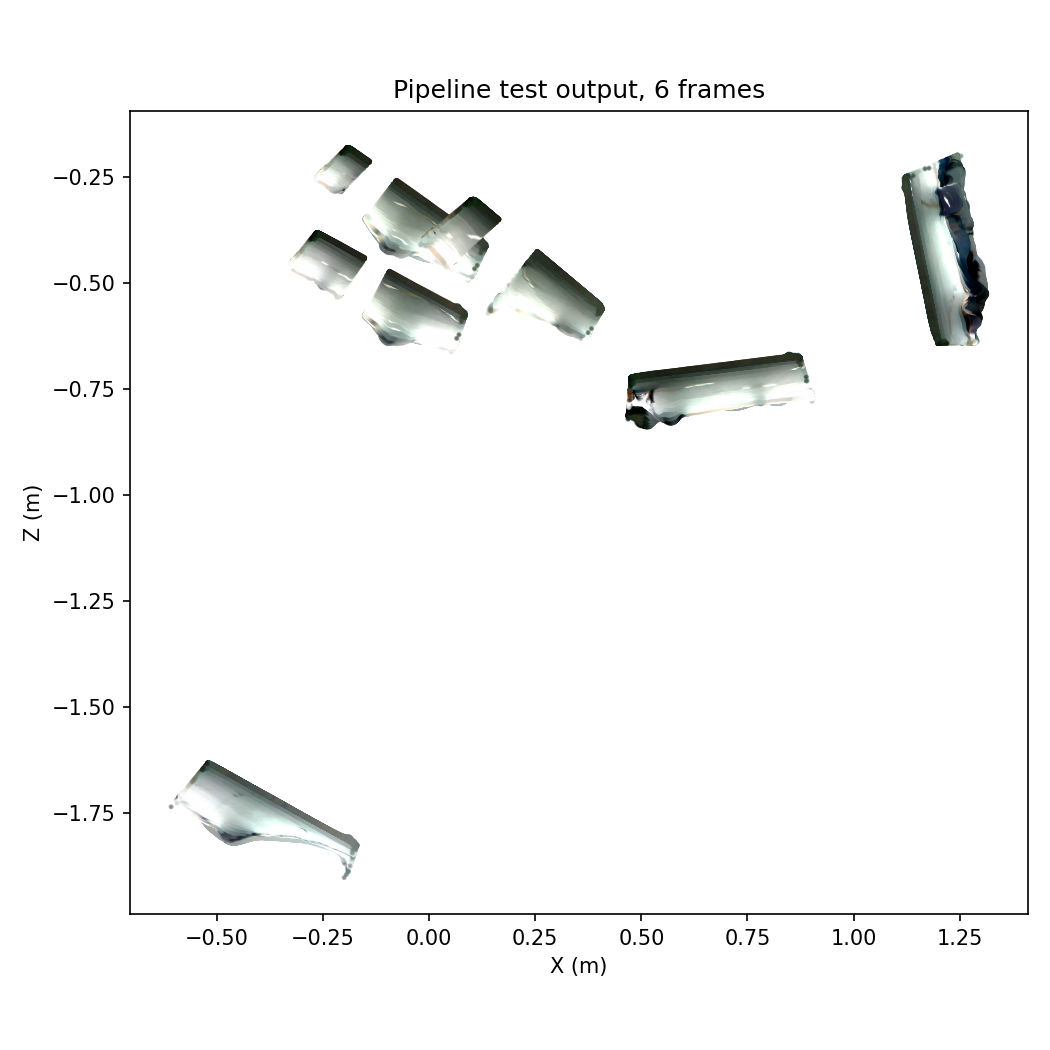
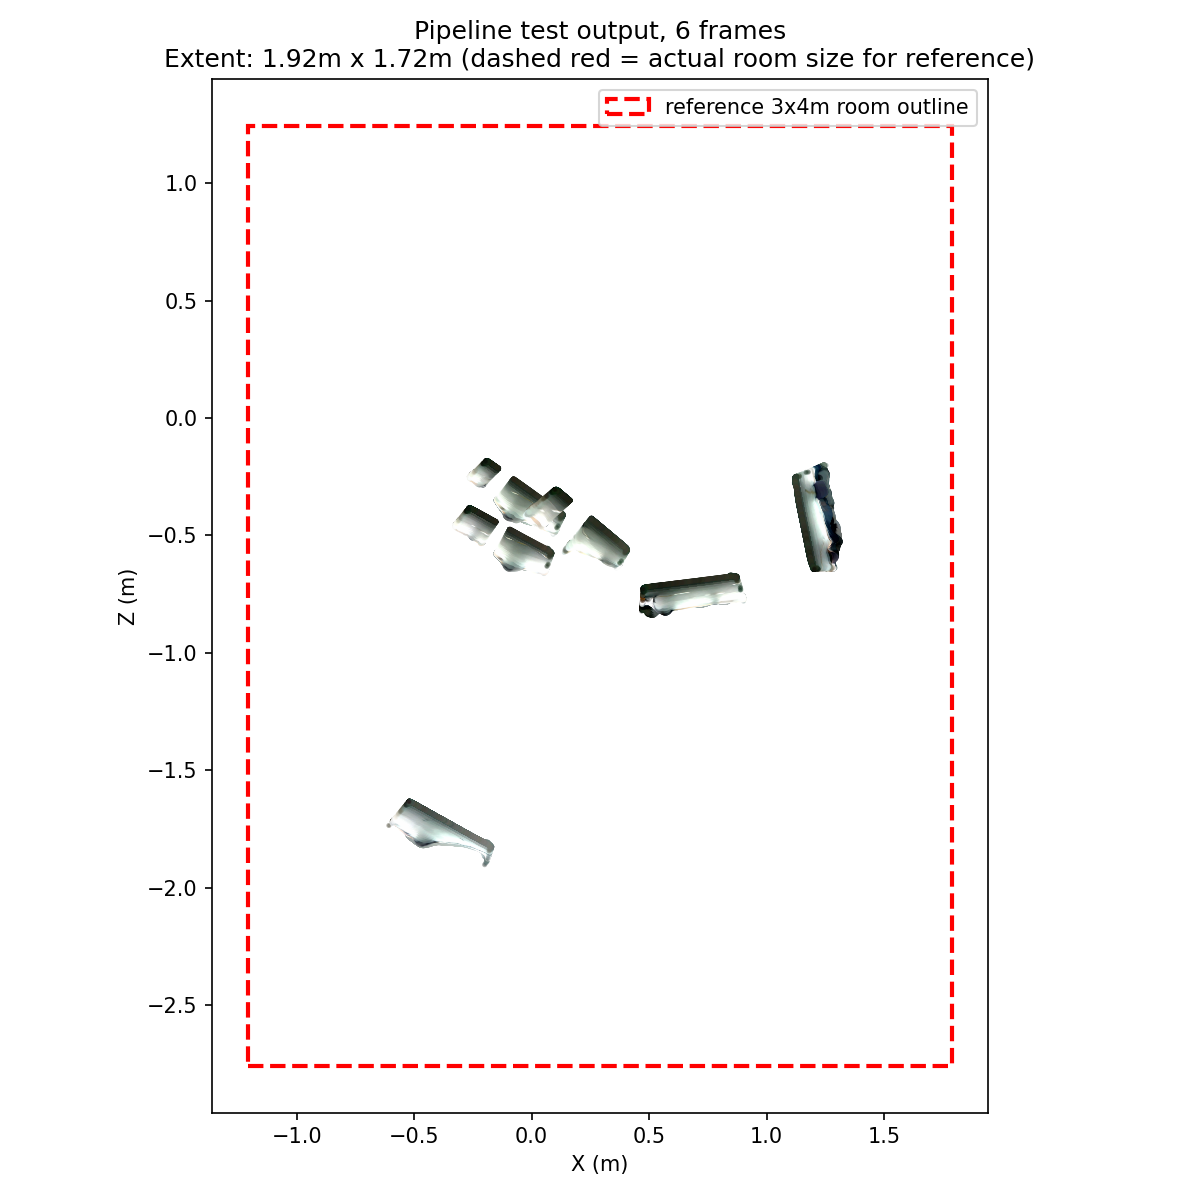
add tes_pipilinet.py

diff --git a/test.py b/test.py
@@ -1,4 +1,3 @@
-import torch
 import cv2
 import json
 import numpy as np
@@ -6,32 +5,42 @@ import pandas as pd
 import glob
 import os
 import matplotlib.pyplot as plt
-from model import ResNetDepth
-from geometric_projection import world_to_camera_frame, project_to_pixel
 
 IMG_DIR = "dataset/rgb"
 POSE_CSV = "dataset/poses/records_20250813-1535.csv"
 INTRINSICS_PATH = "dataset/calib/intrinsics.json"
-GLOBAL_SCALE_PATH = "dataset/calib/global_scale.json"
-WEIGHTS_PATH = "weights/best_model.pth"
-TARGET_ROBOTS = ["S1", "S2"]
-MARGIN_RATIO = 0.15
-ROBOT_SIZE_M = 0.15
-N_FRAMES = 6
-OUT_DIR = "test_pipeline_output"
+TARGET_ROBOT = "S1"
+OUT_DIR = "test_projection_output"
 os.makedirs(OUT_DIR, exist_ok=True)
-
-device = "cuda" if torch.cuda.is_available() else "cpu"
 
 with open(INTRINSICS_PATH) as f:
     K = json.load(f)
-with open(GLOBAL_SCALE_PATH) as f:
-    GS = json.load(f)
-GLOBAL_SCALE = GS["global_scale"]
 
-model = ResNetDepth().to(device)
-model.load_state_dict(torch.load(WEIGHTS_PATH, map_location=device))
-model.eval()
+def world_to_camera_frame(self_x, self_y, self_angle, target_x, target_y, angle_sign=1):
+    self_angle = angle_sign * np.radians(self_angle)
+    dx = target_x - self_x
+    dy = target_y - self_y
+    forward = np.cos(-self_angle) * dx - np.sin(-self_angle) * dy
+    lateral = np.sin(-self_angle) * dx + np.cos(-self_angle) * dy
+    return forward, lateral
+
+def project_to_pixel(forward_mm, lateral_mm, fx, fy, cx, cy, height_mm=0.0, pitch_deg=0.0):
+    forward_m = forward_mm / 1000.0
+    lateral_m = lateral_mm / 1000.0
+    height_m = height_mm / 1000.0
+    if forward_m <= 0.02:
+        return None
+    u = cx + (lateral_m * fx / forward_m)
+    if pitch_deg == 0.0:
+        v = cy + (height_m * fy / forward_m)
+    else:
+        theta = np.radians(pitch_deg)
+        Y_rot = height_m * np.cos(theta) - forward_m * np.sin(theta)
+        Z_rot = height_m * np.sin(theta) + forward_m * np.cos(theta)
+        if Z_rot <= 0.02:
+            return None
+        v = cy + (Y_rot * fy / Z_rot)
+    return u, v
 
 df = pd.read_csv(POSE_CSV)
 img_files = sorted(glob.glob(f"{IMG_DIR}/*.png"))
@@ -44,103 +53,54 @@ def find_img(ts, max_gap=0.03):
     i = np.argmin(np.abs(img_ts - ts))
     return img_files[i] if abs(img_ts[i] - ts) <= max_gap else None
 
-@torch.no_grad()
-def predict_depth(img_path):
-    img = cv2.imread(img_path)
-    img_rgb = cv2.cvtColor(img, cv2.COLOR_BGR2RGB)
-    img_small = cv2.resize(img_rgb, (180, 180))
-    tensor = torch.tensor(img_small / 255.).permute(2, 0, 1).unsqueeze(0).float().to(device)
-    pred = model(tensor).squeeze().cpu().numpy()
-    return pred, img.shape[:2], img_small
-
-def mask_dynamic_robots(depth_map, row, self_pose, w0, h0):
-    masked = depth_map.copy()
-    for tgt in TARGET_ROBOTS:
-        tx = f'car_{tgt}_pose_x'
-        if tx not in row or pd.isna(row[tx]):
-            continue
-        target_pose = {'x': row[tx], 'y': row[f'car_{tgt}_pose_y']}
-        forward, lateral = world_to_camera_frame(self_pose['x'], self_pose['y'], self_pose['angle'],
-                                                    target_pose['x'], target_pose['y'])
-        if forward <= 50:
-            continue
-        result = project_to_pixel(forward, lateral, K['fx'], K['fy'], K['cx'], K['cy'])
-        if result is None:
-            continue
-        u, v = result
-        u_s, v_s = u * 180 / w0, v * 180 / h0
-        margin = MARGIN_RATIO * 180
-        if not (margin <= u_s < 180 - margin):
-            continue
-        r_px = (K['fx'] * ROBOT_SIZE_M / (forward / 1000.0)) * 180 / w0
-        cv2.rectangle(masked, (int(u_s - r_px), 0), (int(u_s + r_px), 180), 0, thickness=-1)
-    return masked
-
-def unproject(depth_map, fx, fy, cx, cy, rgb_image, max_depth=3.0):
-    H, W = depth_map.shape
-    u, v = np.meshgrid(np.arange(W), np.arange(H))
-    valid = (depth_map > 0) & (depth_map < max_depth)
-    z = depth_map[valid]
-    x = (u[valid] - cx) * z / fx
-    y = (v[valid] - cy) * z / fy
-    points = np.stack([x, y, z], axis=1)
-    colors = rgb_image[valid] / 255.0
-    return points, colors
-
-def transform_to_world(points, self_pose):
-    if len(points) == 0:
-        return points
-    angle = np.radians(self_pose['angle'])
-    c, s = np.cos(angle), np.sin(angle)
-    X, Z = points[:, 0], points[:, 2]
-    X_w = c * X + s * Z
-    Z_w = -s * X + c * Z
-    x_f = X_w + self_pose['x'] / 1000.0
-    z_f = Z_w + self_pose['y'] / 1000.0
-    return np.stack([x_f, points[:, 1], z_f], axis=1)
-
-
-valid_rows = []
+candidates = []
 for idx in range(len(df)):
     row = df.iloc[idx]
     if pd.isna(row['self_pose_x']) or pd.isna(row['self_pose_y']) or pd.isna(row['self_pose_angle']):
         continue
-    ts = row['pose_timestamp'] / 1e9
-    if find_img(ts) is not None:
-        valid_rows.append(idx)
-
-step = max(1, len(valid_rows) // N_FRAMES)
-selected_rows = valid_rows[::step][:N_FRAMES]
-print(f"Testing {len(selected_rows)} frames")
-
-all_points, all_colors = [], []
-for csv_idx in selected_rows:
-    row = df.iloc[csv_idx]
+    tx = f'car_{TARGET_ROBOT}_pose_x'
+    if tx not in row or pd.isna(row[tx]):
+        continue
     ts = row['pose_timestamp'] / 1e9
     img_path = find_img(ts)
+    if img_path is None:
+        continue
     self_pose = {'x': row['self_pose_x'], 'y': row['self_pose_y'], 'angle': row['self_pose_angle']}
+    target_pose = {'x': row[tx], 'y': row[f'car_{TARGET_ROBOT}_pose_y']}
+    forward, lateral = world_to_camera_frame(self_pose['x'], self_pose['y'], self_pose['angle'],
+                                                target_pose['x'], target_pose['y'])
+    if forward > 100:
+        candidates.append((idx, img_path, forward, lateral))
 
-    raw_depth, orig_shape, img_small = predict_depth(img_path)
-    h0, w0 = orig_shape
-    raw_depth = mask_dynamic_robots(raw_depth, row, self_pose, w0, h0)
+print(f"Found {len(candidates)} frame has {TARGET_ROBOT} in fornt of camera")
 
-    depth_metric = raw_depth * GLOBAL_SCALE
-    points, colors = unproject(depth_metric, K['fx'], K['fy'],
-                                 K['cx'] * 180 / w0, K['cy'] * 180 / h0, img_small)
-    points_world = transform_to_world(points, self_pose)
-    all_points.append(points_world)
-    all_colors.append(colors)
-    print(f"csv_idx={csv_idx}  {len(points_world)} points")
+candidates.sort(key=lambda c: c[3])
+pick_idx = np.linspace(0, len(candidates) - 1, 6).astype(int)
+samples = [candidates[i] for i in pick_idx]
 
-points = np.concatenate(all_points, axis=0)
-colors = np.concatenate(all_colors, axis=0)
-np.savez(f"{OUT_DIR}/pipeline_test_pointcloud.npz", points=points, colors=colors)
+fig, axes = plt.subplots(2, 3, figsize=(15, 10))
+for ax, (csv_idx, img_path, forward, lateral) in zip(axes.flat, samples):
+    img = cv2.imread(img_path)
+    if img is None:
+        ax.axis('off')
+        continue
 
-fig, ax = plt.subplots(figsize=(7, 7))
-ax.scatter(points[:, 0], points[:, 2], c=np.clip(colors * 2.2, 0, 1), s=2, alpha=0.5)
-ax.set_xlabel("X (m)"); ax.set_ylabel("Z (m)")
-ax.set_aspect('equal')
-ax.set_title(f"Pipeline test output, {len(selected_rows)} frames")
+    result = project_to_pixel(forward, lateral, K['fx'], K['fy'], K['cx'], K['cy'])
+    if result is not None:
+        u, v = result
+        cv2.circle(img, (int(u), int(v)), 10, (0, 255, 0), 2)
+        cv2.line(img, (int(u) - 15, int(v)), (int(u) + 15, int(v)), (0, 255, 0), 1)
+        cv2.line(img, (int(u), int(v) - 15), (int(u), int(v) + 15), (0, 255, 0), 1)
+
+    ax.imshow(cv2.cvtColor(img, cv2.COLOR_BGR2RGB))
+    ax.set_title(f"lateral={lateral:.0f}mm  forward={forward:.0f}mm\n"
+                 f"green dot = predicted S1 position")
+    ax.axis('off')
+
+plt.suptitle("Projection sanity check: does the green dot land on the real robot?\n"
+             "Check left/right (mirror) errors especially on frames with large |lateral|",
+             fontsize=13)
 plt.tight_layout()
-plt.savefig(f"{OUT_DIR}/pipeline_test_topdown.png", dpi=150)
-print(f"Saved {OUT_DIR}/pipeline_test_pointcloud.npz and {OUT_DIR}/pipeline_test_topdown.png")
+out_path = f"{OUT_DIR}/projection_check_grid.png"
+plt.savefig(out_path, dpi=140)
+print(f"Saved {out_path}")

diff --git a/test_pipeline.py b/test_pipeline.py
@@ -1,0 +1,162 @@
+import torch
+import cv2
+import json
+import numpy as np
+import pandas as pd
+import glob
+import os
+import matplotlib.pyplot as plt
+from model import ResNetDepth
+from geometric_projection import world_to_camera_frame, project_to_pixel
+
+IMG_DIR = "dataset/rgb"
+POSE_CSV = "dataset/poses/records_20250813-1535.csv"
+INTRINSICS_PATH = "dataset/calib/intrinsics.json"
+GLOBAL_SCALE_PATH = "dataset/calib/global_scale.json"
+WEIGHTS_PATH = "weights/best_model.pth"
+TARGET_ROBOTS = ["S1", "S2"]
+MARGIN_RATIO = 0.15
+ROBOT_SIZE_M = 0.15
+N_FRAMES = 6
+OUT_DIR = "test_pipeline_output"
+os.makedirs(OUT_DIR, exist_ok=True)
+
+device = "cuda" if torch.cuda.is_available() else "cpu"
+
+with open(INTRINSICS_PATH) as f:
+    K = json.load(f)
+with open(GLOBAL_SCALE_PATH) as f:
+    GS = json.load(f)
+GLOBAL_SCALE = GS["global_scale"]
+
+model = ResNetDepth().to(device)
+model.load_state_dict(torch.load(WEIGHTS_PATH, map_location=device))
+model.eval()
+
+df = pd.read_csv(POSE_CSV)
+img_files = sorted(glob.glob(f"{IMG_DIR}/*.png"))
+
+def get_ts(f):
+    return int(os.path.splitext(os.path.basename(f))[0].replace("image_", "")) / 1e9
+img_ts = np.array([get_ts(f) for f in img_files])
+
+def find_img(ts, max_gap=0.03):
+    i = np.argmin(np.abs(img_ts - ts))
+    return img_files[i] if abs(img_ts[i] - ts) <= max_gap else None
+
+@torch.no_grad()
+def predict_depth(img_path):
+    img = cv2.imread(img_path)
+    img_rgb = cv2.cvtColor(img, cv2.COLOR_BGR2RGB)
+    img_small = cv2.resize(img_rgb, (180, 180))
+    tensor = torch.tensor(img_small / 255.).permute(2, 0, 1).unsqueeze(0).float().to(device)
+    pred = model(tensor).squeeze().cpu().numpy()
+    return pred, img.shape[:2], img_small
+
+def mask_dynamic_robots(depth_map, row, self_pose, w0, h0):
+    masked = depth_map.copy()
+    for tgt in TARGET_ROBOTS:
+        tx = f'car_{tgt}_pose_x'
+        if tx not in row or pd.isna(row[tx]):
+            continue
+        target_pose = {'x': row[tx], 'y': row[f'car_{tgt}_pose_y']}
+        forward, lateral = world_to_camera_frame(self_pose['x'], self_pose['y'], self_pose['angle'],
+                                                    target_pose['x'], target_pose['y'])
+        if forward <= 50:
+            continue
+        result = project_to_pixel(forward, lateral, K['fx'], K['fy'], K['cx'], K['cy'])
+        if result is None:
+            continue
+        u, v = result
+        u_s, v_s = u * 180 / w0, v * 180 / h0
+        margin = MARGIN_RATIO * 180
+        if not (margin <= u_s < 180 - margin):
+            continue
+        r_px = (K['fx'] * ROBOT_SIZE_M / (forward / 1000.0)) * 180 / w0
+        cv2.rectangle(masked, (int(u_s - r_px), 0), (int(u_s + r_px), 180), 0, thickness=-1)
+    return masked
+
+def unproject(depth_map, fx, fy, cx, cy, rgb_image, max_depth=3.0):
+    H, W = depth_map.shape
+    u, v = np.meshgrid(np.arange(W), np.arange(H))
+    valid = (depth_map > 0) & (depth_map < max_depth)
+    z = depth_map[valid]
+    x = (u[valid] - cx) * z / fx
+    y = (v[valid] - cy) * z / fy
+    points = np.stack([x, y, z], axis=1)
+    colors = rgb_image[valid] / 255.0
+    return points, colors
+
+def transform_to_world(points, self_pose):
+    if len(points) == 0:
+        return points
+    angle = np.radians(self_pose['angle'])
+    c, s = np.cos(angle), np.sin(angle)
+    X, Z = points[:, 0], points[:, 2]
+    X_w = c * X + s * Z
+    Z_w = -s * X + c * Z
+    x_f = X_w + self_pose['x'] / 1000.0
+    z_f = Z_w + self_pose['y'] / 1000.0
+    return np.stack([x_f, points[:, 1], z_f], axis=1)
+
+
+valid_rows = []
+for idx in range(len(df)):
+    row = df.iloc[idx]
+    if pd.isna(row['self_pose_x']) or pd.isna(row['self_pose_y']) or pd.isna(row['self_pose_angle']):
+        continue
+    ts = row['pose_timestamp'] / 1e9
+    if find_img(ts) is not None:
+        valid_rows.append(idx)
+
+step = max(1, len(valid_rows) // N_FRAMES)
+selected_rows = valid_rows[::step][:N_FRAMES]
+print(f"Testing {len(selected_rows)} frames")
+
+all_points, all_colors = [], []
+for csv_idx in selected_rows:
+    row = df.iloc[csv_idx]
+    ts = row['pose_timestamp'] / 1e9
+    img_path = find_img(ts)
+    self_pose = {'x': row['self_pose_x'], 'y': row['self_pose_y'], 'angle': row['self_pose_angle']}
+
+    raw_depth, orig_shape, img_small = predict_depth(img_path)
+    h0, w0 = orig_shape
+    raw_depth = mask_dynamic_robots(raw_depth, row, self_pose, w0, h0)
+
+    depth_metric = raw_depth * GLOBAL_SCALE
+    points, colors = unproject(depth_metric, K['fx'], K['fy'],
+                                 K['cx'] * 180 / w0, K['cy'] * 180 / h0, img_small)
+    points_world = transform_to_world(points, self_pose)
+    all_points.append(points_world)
+    all_colors.append(colors)
+    print(f"csv_idx={csv_idx}  {len(points_world)} points")
+
+points = np.concatenate(all_points, axis=0)
+colors = np.concatenate(all_colors, axis=0)
+np.savez(f"{OUT_DIR}/pipeline_test_pointcloud.npz", points=points, colors=colors)
+
+extent_x = points[:, 0].max() - points[:, 0].min()
+extent_z = points[:, 2].max() - points[:, 2].min()
+print(f"Point cloud extent: X={extent_x:.2f}m, Z={extent_z:.2f}m")
+print(f"Actual room size: 3m x 4m -> expect extent roughly in this range if geometry is correct")
+
+fig, ax = plt.subplots(figsize=(8, 8))
+ax.scatter(points[:, 0], points[:, 2], c=np.clip(colors * 2.2, 0, 1), s=2, alpha=0.5)
+
+# reference rectangle = known physical room size (3m x 4m), centered on point cloud centroid,
+# so it's directly visually comparable to the actual room shape/size
+cx_ref, cz_ref = points[:, 0].mean(), points[:, 2].mean()
+room_w, room_h = 3.0, 4.0
+ax.add_patch(plt.Rectangle((cx_ref - room_w / 2, cz_ref - room_h / 2), room_w, room_h,
+                            fill=False, edgecolor='red', linewidth=2, linestyle='--',
+                            label='reference 3x4m room outline'))
+
+ax.set_xlabel("X (m)"); ax.set_ylabel("Z (m)")
+ax.set_aspect('equal')
+ax.legend()
+ax.set_title(f"Pipeline test output, {len(selected_rows)} frames\n"
+             f"Extent: {extent_x:.2f}m x {extent_z:.2f}m (dashed red = actual room size for reference)")
+plt.tight_layout()
+plt.savefig(f"{OUT_DIR}/pipeline_test_topdown.png", dpi=150)
+print(f"Saved {OUT_DIR}/pipeline_test_pointcloud.npz and {OUT_DIR}/pipeline_test_topdown.png")
